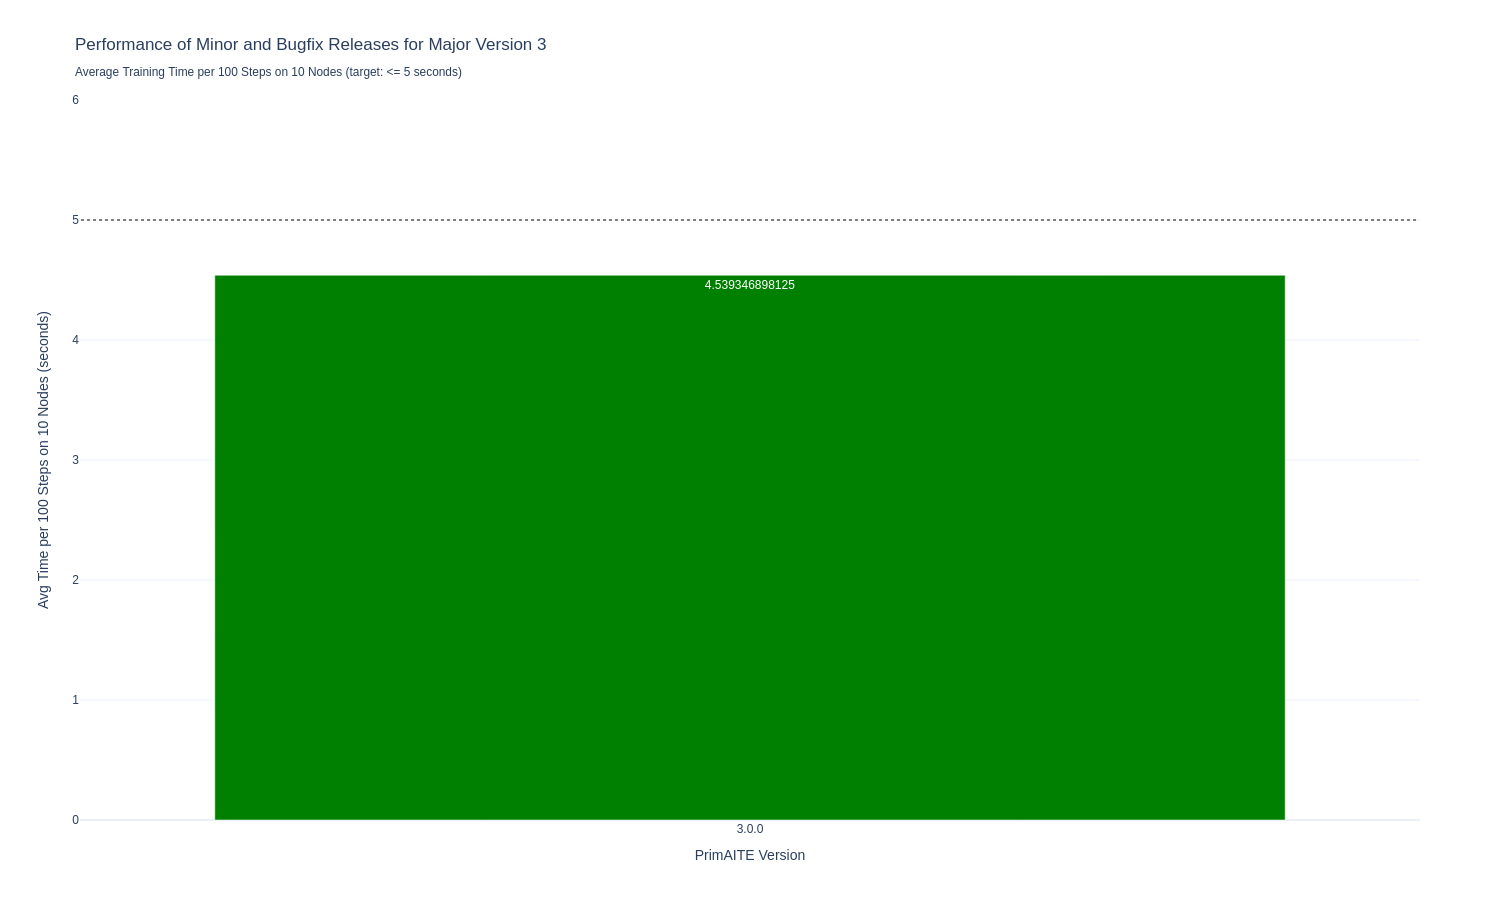
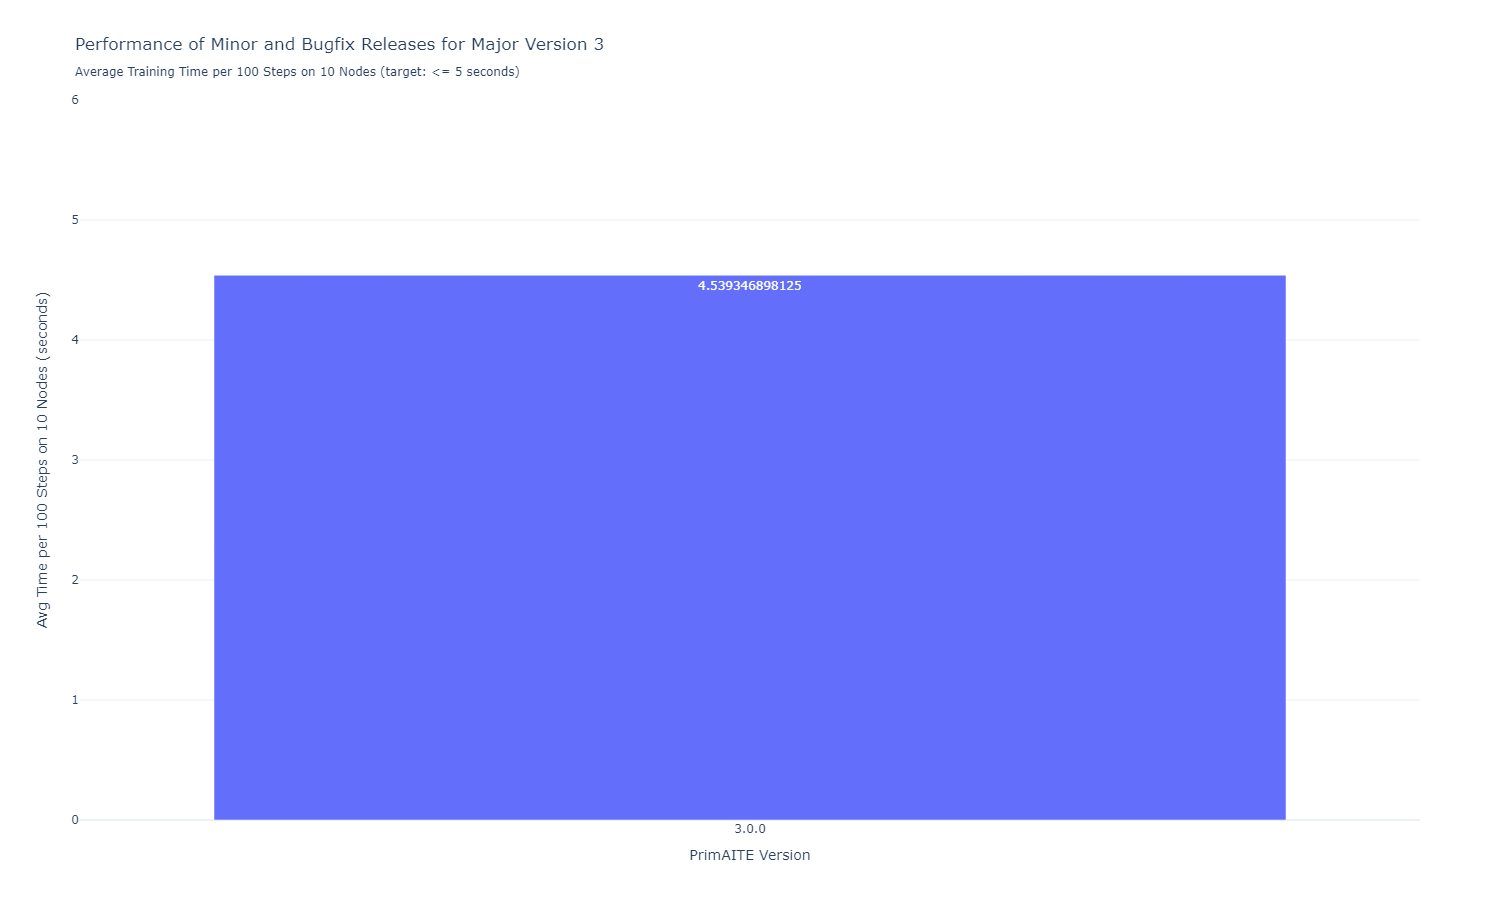
refactored the performance benchmark plot so that there's no benchmark threshold line and all bars are blue [skip ci]

diff --git a/benchmark/report.py b/benchmark/report.py
@@ -17,8 +17,6 @@ PLOT_CONFIG = {
     "size": {"auto_size": False, "width": 1500, "height": 900},
     "template": "plotly_white",
     "range_slider": False,
-    "av_s_per_100_steps_10_nodes_benchmark_threshold": 5,
-    "benchmark_line_color": "grey",
 }
 
 
@@ -229,10 +227,7 @@ def _plot_av_s_per_100_steps_10_nodes(
     """
     Creates a bar chart visualising the performance of each version of PrimAITE.
 
-    Performance is based on the average training time per 100 steps on 10 nodes. The function also includes a benchmark
-    line indicating the target maximum time.
-
-    Versions that perform under this time are marked in green, and those over are marked in red.
+    Performance is based on the average training time per 100 steps on 10 nodes.
 
     :param version_times_dict: A dictionary with software versions as keys and average times as values.
     :return: A Plotly figure object representing the bar chart of the performance metrics.
@@ -256,7 +251,6 @@ def _plot_av_s_per_100_steps_10_nodes(
     versions = sorted(list(version_times_dict.keys()))
     times = [version_times_dict[version] for version in versions]
     av_s_per_100_steps_10_nodes_benchmark_threshold = PLOT_CONFIG["av_s_per_100_steps_10_nodes_benchmark_threshold"]
-    benchmark_line_color = PLOT_CONFIG["benchmark_line_color"]
 
     # Calculate the appropriate maximum y-axis value
     max_y_axis_value = max(max(times), av_s_per_100_steps_10_nodes_benchmark_threshold) + 1
@@ -265,26 +259,9 @@ def _plot_av_s_per_100_steps_10_nodes(
         go.Bar(
             x=versions,
             y=times,
-            marker_color=[
-                "green" if time < av_s_per_100_steps_10_nodes_benchmark_threshold else "red" for time in times
-            ],
             text=times,
             textposition="auto",
         )
-    )
-
-    # Add a horizontal line for the benchmark
-    fig.add_shape(
-        type="line",
-        x0=-0.5,  # start slightly before the first bar
-        x1=len(versions) - 0.5,  # end slightly after the last bar
-        y0=av_s_per_100_steps_10_nodes_benchmark_threshold,
-        y1=av_s_per_100_steps_10_nodes_benchmark_threshold,
-        line=dict(
-            color=benchmark_line_color,
-            width=2,
-            dash="dot",
-        ),
     )
 
     fig.update_layout(
